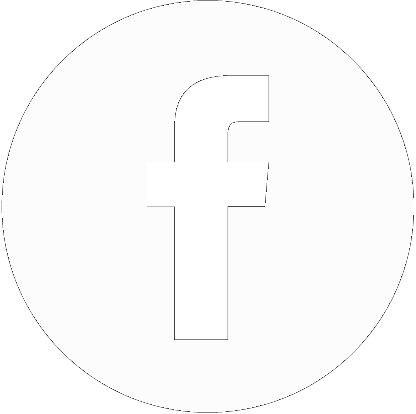
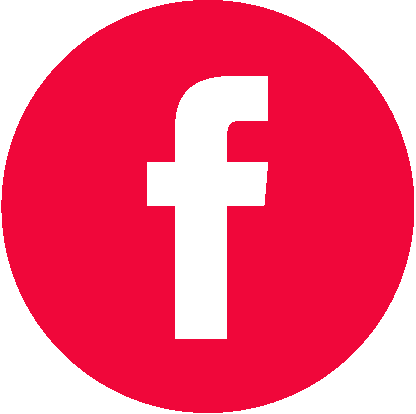
change main color (from green to redish)

diff --git a/css/style.css b/css/style.css
@@ -9,13 +9,16 @@ body {
 a {
   text-decoration: none; }
 
+* {
+  box-sizing: border-box; }
+
 /*------------------WINDOW SIZE PANEL------------------*/
 #showWindowSize {
   position: fixed;
   bottom: 0;
   right: 0;
-  color: #11dd76;
-  border: 2px solid #11dd76;
+  color: #f0073a;
+  border: 2px solid #f0073a;
   padding: 1%; }
 
 /*------------------CAROUSEL------------------*/
@@ -27,10 +30,10 @@ a {
   height: 100vh; }
 
 .carouselNavCircles .active {
-  background: #11dd76; }
+  background: #f0073a; }
 
 .carouselNavCircles li {
-  border-color: #11dd76; }
+  border-color: #f0073a; }
 
 #backToFirst {
   position: absolute;
@@ -41,22 +44,22 @@ a {
   padding-left: 0;
   margin-left: -15%;
   text-align: center;
-  background: rgba(17, 221, 118, 0.5);
+  background: rgba(240, 7, 58, 0.5);
   color: #000000;
   cursor: pointer;
   visibility: hidden;
   font-weight: bold; }
 
 #backToFirst:hover {
-  background: #11dd76; }
+  background: #f0073a; }
 
 .carouselArrowContainer.left, .carouselArrowContainer.right {
   background-image: none;
-  color: #11dd76; }
+  color: #f0073a; }
 
 .carouselArrowContainer.disabled:hover, .carouselArrowContainer.disabled {
   cursor: default;
-  color: rgba(17, 221, 118, 0.2);
+  color: rgba(240, 7, 58, 0.2);
   opacity: inherit; }
 
 /*------------------DESCRIPTION------------------*/
@@ -79,7 +82,7 @@ a {
   text-align: center;
   margin-bottom: 5%;
   font-size: 120%;
-  color: #11dd76; }
+  color: #f0073a; }
 
 .productMaterial, .productMaterial + dd {
   display: inline; }
@@ -106,23 +109,27 @@ a {
   color: black; }
 
 .chooseSize label {
-  background: #11dd76; }
+  background: #f0073a; }
 
 .chooseSize label:hover, .chooseSize input:checked + label {
-  background: white; }
+  -ms-transform: rotate(30deg);
+  -webkit-transform: rotate(30deg);
+  transform: rotate(30deg); }
 
-.chooseColor input:checked + label {
-  border: 4px solid #11dd76; }
+.chooseColor label:hover, .chooseColor input:checked + label {
+  -ms-transform: rotate(30deg);
+  -webkit-transform: rotate(30deg);
+  transform: rotate(30deg); }
 
 .addToCart {
   background: none;
-  border: 1px solid #11dd76;
-  color: #11dd76;
+  border: 1px solid #f0073a;
+  color: #f0073a;
   padding: 2%;
   margin-top: 3%; }
 
 .addToCart:hover {
-  background: #11dd76;
+  background: #f0073a;
   color: #000000; }
 
 /*------------------Recommended Section------------------*/
@@ -135,8 +142,7 @@ a {
     width: 20%;
     position: relative; }
   .recommendedContainer .grid-item {
-    overflow: hidden;
-    border: 1vh solid black; }
+    overflow: hidden; }
   .recommendedContainer .grid-item:hover .caption {
     -moz-transform: translateY(-100%);
     -o-transform: translateY(-100%);
@@ -154,7 +160,7 @@ a {
     -ms-filter: grayscale(1); }
   .recommendedContainer .caption {
     position: absolute;
-    background: rgba(17, 221, 118, 0.5);
+    background: rgba(240, 7, 58, 0.5);
     width: 100%;
     height: 100%;
     padding-top: 50%;
@@ -180,18 +186,18 @@ footer {
   position: absolute;
   bottom: 0;
   width: 100vw;
-  border: 2px dashed #11dd76;
+  border-top: 2px dashed #f0073a;
   color: white;
   text-align: center;
   padding: 2%;
   background: #000000; }
 
 .email {
-  color: #11dd76;
+  color: #f0073a;
   margin-botttom: 2%; }
 
 .email:hover {
-  color: #11dd76;
+  color: #f0073a;
   font-weight: bold;
   text-decoration: none; }
 

diff --git a/css/style.scss b/css/style.scss
@@ -1,8 +1,8 @@
 $mainBackground: #000000;
-$carouselNav: rgba(17, 221, 118, 1);
+$carouselNav: rgba(240, 7, 58, 1);
 $productDescriptionColorAndBorder:  #ffffff;
-$availableSizesBackground: rgba(17, 221, 118, 1);
-$showWindowSizeColor:rgba(17, 221, 118, 1);
+$availableSizesBackground: rgba(240, 7, 58, 1);
+$showWindowSizeColor: rgba(240, 7, 58, 1);
 
 $footerHeight: 35vh;
 $carouselAndDescriptionH: 100vh;
@@ -23,6 +23,12 @@ $carouselAndDescriptionH: 100vh;
     transition: all $time ease-out;
 }
 
+@mixin rotateSelection ($angle:30deg) {
+    -ms-transform: rotate($angle);
+    -webkit-transform: rotate($angle);
+    transform: rotate($angle);
+}
+
 
 
 /*------------------RESET------------------*/
@@ -36,6 +42,9 @@ body {
 
 a {
     text-decoration:none;
+}
+* {
+    box-sizing: border-box;
 }
 
 /*------------------WINDOW SIZE PANEL------------------*/
@@ -147,10 +156,11 @@ a {
 }
 
 .chooseSize label:hover,  .chooseSize input:checked + label{
-    background : white;
+    @include rotateSelection;
+    
 }
-.chooseColor input:checked + label{
-    border: 4px solid $availableSizesBackground;
+.chooseColor label:hover, .chooseColor input:checked + label{
+    @include rotateSelection;
 }
 
 .addToCart {
@@ -180,7 +190,7 @@ a {
 
     .grid-item {
     overflow:hidden;
-    border: 1vh solid black;
+    
     }
 
     .grid-item:hover .caption {
@@ -227,7 +237,7 @@ footer {
     position:absolute;
     bottom:0;
     width:100vw;
-    border: 2px dashed $availableSizesBackground;
+    border-top: 2px dashed $availableSizesBackground;
     color:white;
     text-align:center;
     padding:2%;
